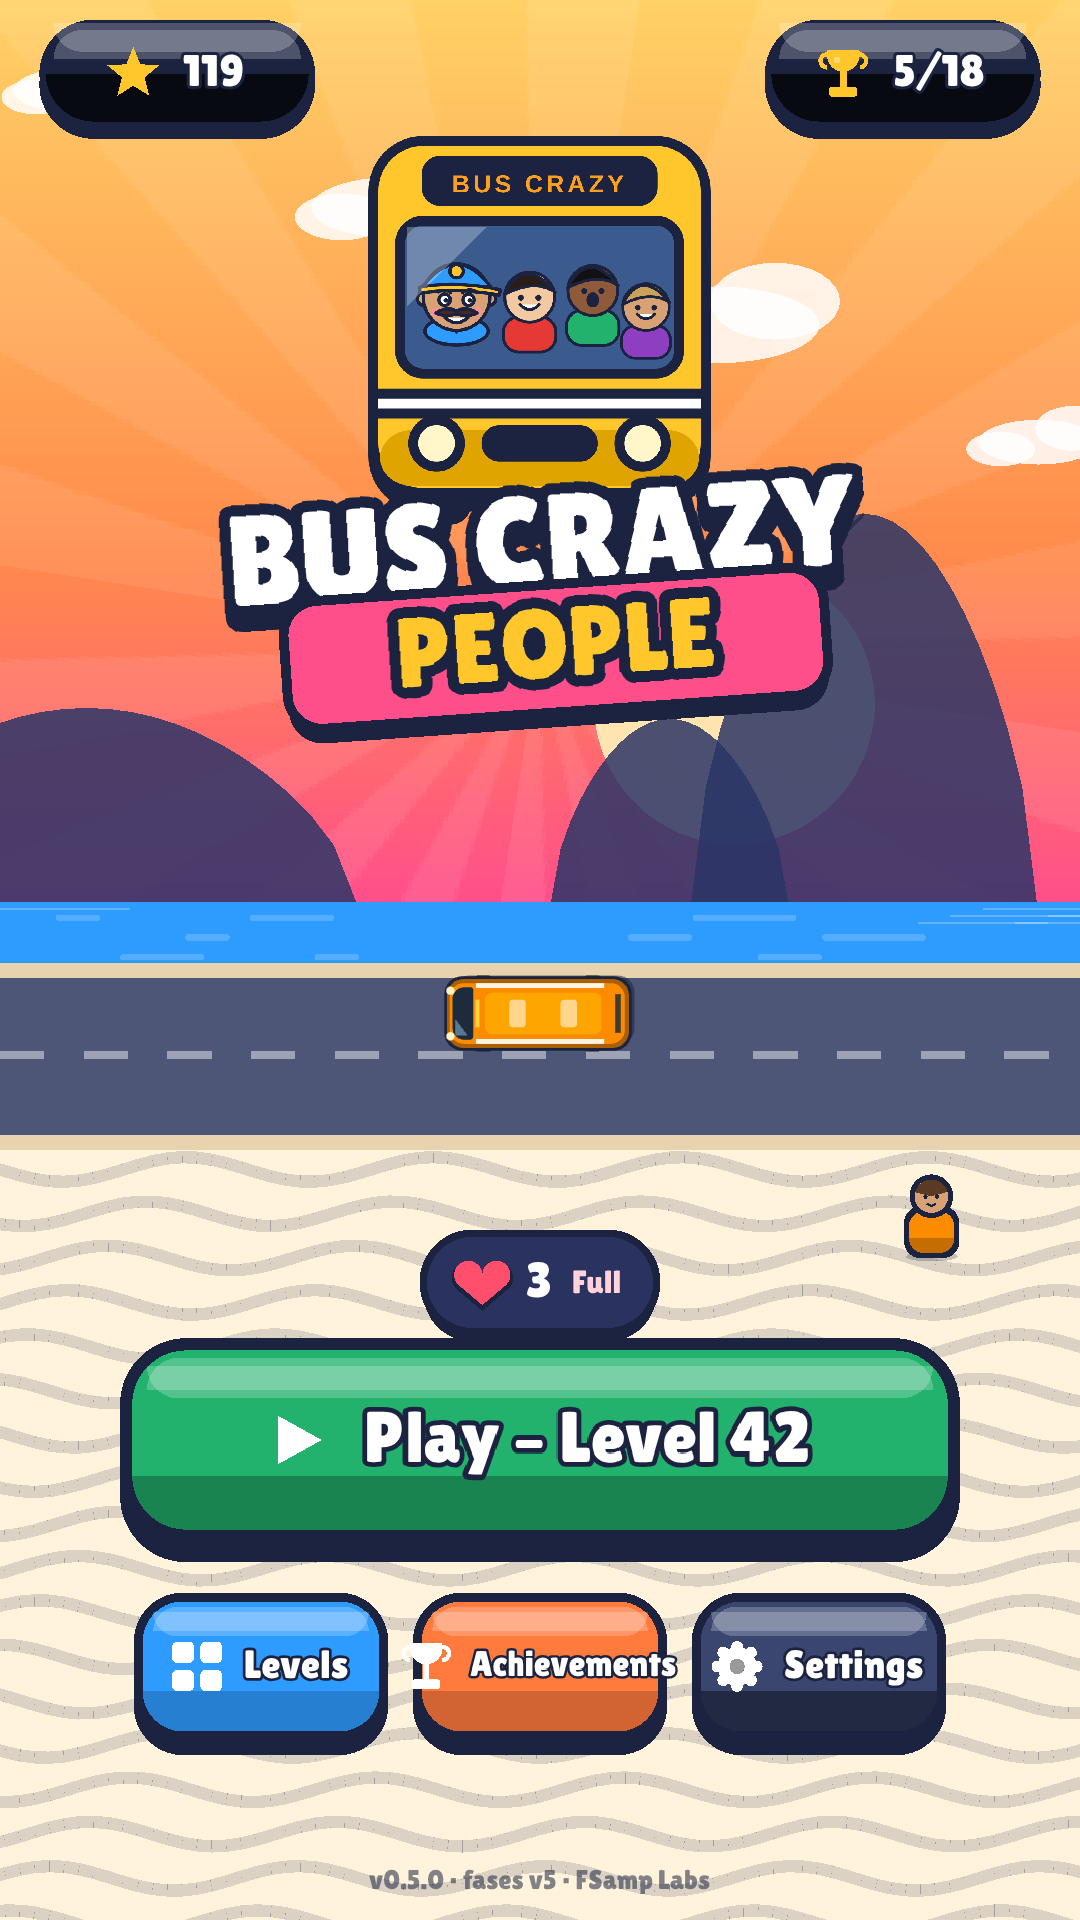
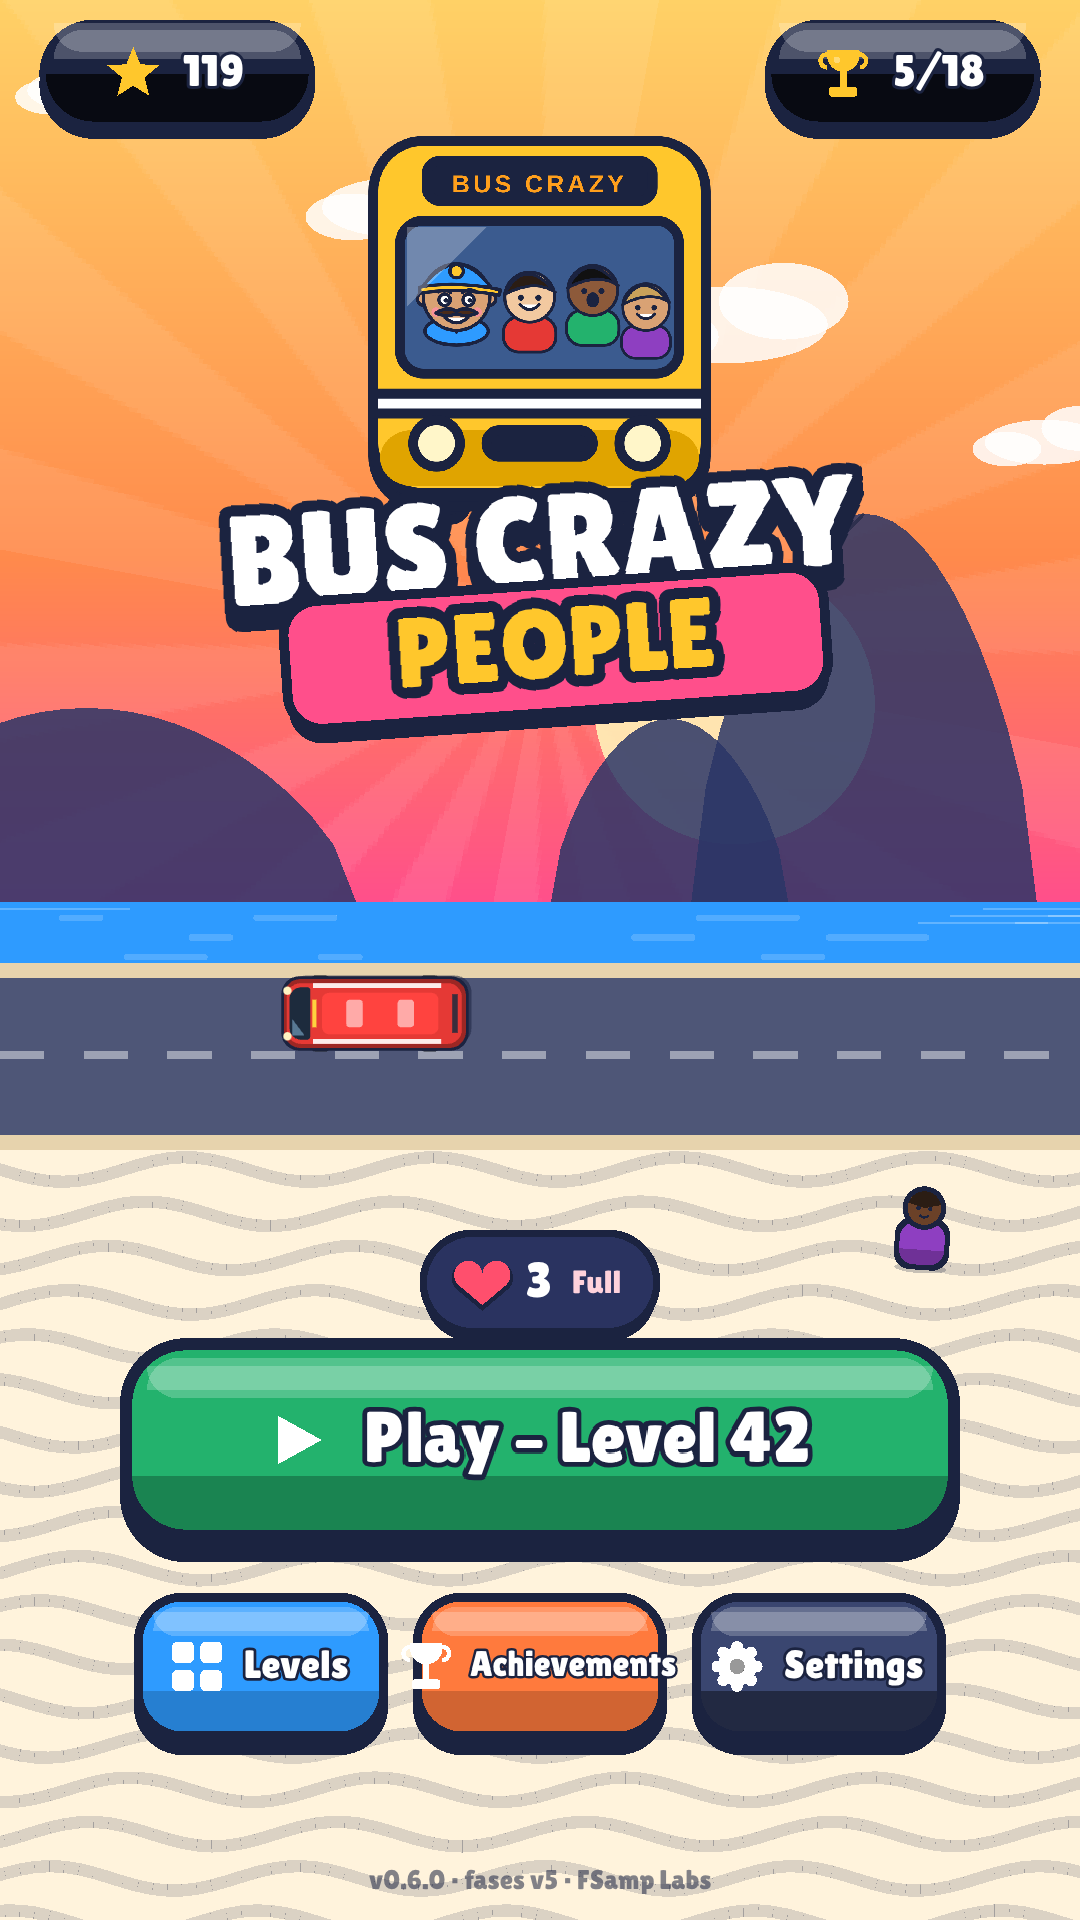
Polimento para publicação
- Abertura de cada fase: "Fase N · Deixe as 3 filas felizes!"
- Carinha da fila pulsa quando falta 1 jogada para ela piorar
- Filas ocupam a largura toda (mais passageiros visíveis)
- Derrota por vagas: texto sem repetição e sem falar em "próximo passageiro"
- Tablets: janelas e avisos proporcionais ao jogo; paisagem: botões de
  baixo com largura máxima
- Capturas da loja geradas de novo; versão 0.6.1

Claude-Session: https://claude.ai/code/session_017TcqurDwB4uomrNTHnP9us

diff --git a/src/scenes/GameScene.js b/src/scenes/GameScene.js
@@ -68,6 +68,7 @@ export class GameScene extends Phaser.Scene {
     if (!this.exempt && !Lives.has()) this.showNoLives();
     else if (this.level.challenge && !Progress.isCompleted(this.levelId)) this.showChallengeIntro();
     else this.showMechanicIntro();
+    if (!this.modalOpen) this.time.delayedCall(250, () => this.showLevelBanner());
 
     this.input.on('pointerdown', (p) => this.onPointerDown(p));
     this.input.on('pointerup', (p) => this.onPointerUp(p));
@@ -847,7 +848,7 @@ export class GameScene extends Phaser.Scene {
     const x0 = L.left + (multi ? 50 : 56) * u;
     const top = this.zones.yWalk + (multi ? 7 * u : 0);
     const rowH = multi ? (this.zones.walkH - 14 * u) / n : this.zones.walkH;
-    this.qVisible = Math.max(4, Math.min(CONFIG.game.queueVisible, Math.floor((L.right - 40 * u - x0) / this.qGap) + 1));
+    this.qVisible = Math.max(4, Math.min(CONFIG.game.queueVisible, Math.floor((L.right - 34 * u - x0) / this.qGap) + 1));
     this.lineRows = this.lines.map((_, i) => ({ i, x0, y: top + rowH * (i + 0.5) + (multi ? 3 * u : 2 * u), rowH, views: [], face: null, meter: null, more: null }));
   }
 
@@ -962,6 +963,14 @@ export class GameScene extends Phaser.Scene {
         row.face.clear();
         drawMoodFace(row.face, 0, 0, row.faceR, mood);
         row.face.setAlpha(done ? 0.85 : 1);
+        // aviso: só aguenta mais 1 jogada sem embarcar -> a carinha pulsa
+        const warn = !done && mood > 0 && calm - this.state.wait[li] <= 1;
+        if (warn && !row.pulse) row.pulse = this.tweens.add({ targets: row.face, scale: 1.18, duration: 260, yoyo: true, repeat: -1, ease: 'Sine.easeInOut' });
+        else if (!warn && row.pulse) {
+          row.pulse.stop();
+          row.pulse = null;
+          row.face.setScale(1);
+        }
       }
       // paciência: pontinhos (cheios = jogadas que ainda aguenta antes de piorar)
       if (row.meter) {
@@ -990,6 +999,34 @@ export class GameScene extends Phaser.Scene {
         v.priority.txt.setColor(left <= 2 ? '#c0141f' : '#1f2333');
       }
     }
+  }
+
+  /** Abertura da fase: "Fase N" + objetivo (some sozinha; não bloqueia o toque). */
+  showLevelBanner() {
+    if (this.modalOpen || this.state.moves) return;
+    const u = this.u;
+    const y = this.gy + (this.cell * this.level.rows) / 2;
+    const c = this.add.container(this.L.cx, y).setDepth(80);
+    const title = this.add
+      .text(0, -12 * u, t('game.level', { n: this.levelId }), { fontFamily: DISPLAY, fontSize: `${34 * u}px`, color: '#ffffff', stroke: C.inkCss, strokeThickness: 8 * u })
+      .setOrigin(0.5);
+    const n = this.lines.length;
+    const sub = this.add
+      .text(0, 24 * u, n > 1 ? t('game.goal', { n }) : t('game.goal1'), { fontFamily: DISPLAY, fontSize: `${16 * u}px`, color: '#ffe28a', stroke: C.inkCss, strokeThickness: 5 * u })
+      .setOrigin(0.5);
+    const w = Math.max(title.width, sub.width) + 44 * u;
+    const h = 92 * u;
+    const bg = this.add.graphics();
+    bg.fillStyle(C.ink, 0.35);
+    bg.fillRoundedRect(-w / 2, -h / 2 + 6 * u, w, h, 22 * u);
+    bg.fillStyle(this.level.challenge ? C.challenge : C.button, 1);
+    bg.fillRoundedRect(-w / 2, -h / 2, w, h, 22 * u);
+    bg.lineStyle(4 * u, C.ink, 1);
+    bg.strokeRoundedRect(-w / 2, -h / 2, w, h, 22 * u);
+    c.add([bg, title, sub]);
+    c.setScale(0.6).setAlpha(0);
+    this.tweens.add({ targets: c, scale: 1, alpha: 1, duration: 260, ease: 'Back.easeOut' });
+    this.tweens.add({ targets: c, alpha: 0, y: y - 30 * u, delay: 1300, duration: 320, ease: 'Quad.easeIn', onComplete: () => c.destroy() });
   }
 
   /** Toque na carinha: explica o humor e as estrelas. */
@@ -1034,7 +1071,7 @@ export class GameScene extends Phaser.Scene {
 
   buildBottomBar(L, u, pad) {
     const y = this.zones.yBottom + this.zones.bottomH / 2;
-    const w = (L.usableW - pad * 2 - 16 * u) / 3;
+    const w = Math.min((L.usableW - pad * 2 - 16 * u) / 3, 150 * u); // paisagem/tablet: não estica demais
     const h = 58 * u;
     const opts = (icon, color) => ({ width: w, height: h, fontSize: 16 * u, radius: 18 * u, icon, iconSize: 22 * u, color });
     this.undoBtn = new Button(this, L.cx - w - 8 * u, y, t('game.undo'), opts('undo', C.button), () => this.onUndo()).setDepth(50);
@@ -1497,6 +1534,7 @@ export class GameScene extends Phaser.Scene {
         this.modalOpen = false;
         this.highlightMechanic(next);
         this.time.delayedCall(400, () => this.autoHint());
+        this.time.delayedCall(150, () => this.showLevelBanner());
       },
     });
   }
@@ -1549,7 +1587,7 @@ export class GameScene extends Phaser.Scene {
           },
         },
       ],
-      onClose: () => (this.modalOpen = false),
+      onClose: () => ((this.modalOpen = false), this.time.delayedCall(150, () => this.showLevelBanner())),
     });
   }
 

diff --git a/src/i18n/pt-BR.js b/src/i18n/pt-BR.js
@@ -47,6 +47,8 @@ export default {
     combo: 'Combo x{n}!',
     moodAnnoyed: 'Fila impaciente!',
     moodAngry: 'Fila nervosa!',
+    goal: 'Deixe as {n} filas felizes!',
+    goal1: 'Deixe a fila feliz!',
     homeTitle: 'Voltar ao início?',
     homeInfo: 'Você perde o andamento desta fase (as vidas não são gastas).',
     homeYes: 'Sair',
@@ -77,12 +79,12 @@ export default {
     moves: { one: 'em {n} jogada', other: 'em {n} jogadas' },
   },
   lose: {
-    needColor: 'O próximo passageiro precisava de um ônibus {color}.',
+    needColor: 'A frente das filas precisava de um ônibus {color}.',
     needColors: 'Nenhum ônibus servia para a frente das filas ({colors}).',
     titleStuck: 'Trânsito travado!',
     infoStuck: 'Nenhum ônibus consegue sair mais. Desfaça uma jogada ou reinicie.',
     titleSlots: 'Ponto lotado!',
-    infoSlots: 'Todas as vagas ficaram ocupadas sem ônibus da cor do próximo passageiro.',
+    infoSlots: 'Todas as vagas do ponto ficaram ocupadas.',
     titlePatience: 'Perdeu a paciência!',
     infoPatience: 'Um passageiro com pressa não embarcou a tempo.',
     undo: 'Desfazer última jogada',

diff --git a/src/i18n/es.js b/src/i18n/es.js
@@ -46,6 +46,8 @@ export default {
     combo: '¡Combo x{n}!',
     moodAnnoyed: '¡Fila impaciente!',
     moodAngry: '¡Fila enojada!',
+    goal: '¡Mantén felices las {n} filas!',
+    goal1: '¡Mantén feliz la fila!',
     homeTitle: '¿Volver al inicio?',
     homeInfo: 'Pierdes el avance de este nivel (no se gastan vidas).',
     homeYes: 'Salir',
@@ -76,12 +78,12 @@ export default {
     moves: { one: 'en {n} jugada', other: 'en {n} jugadas' },
   },
   lose: {
-    needColor: 'El próximo pasajero necesitaba un bus {color}.',
+    needColor: 'El frente de las filas necesitaba un bus {color}.',
     needColors: 'Ningún bus servía para el frente de las filas ({colors}).',
     titleStuck: '¡Atasco total!',
     infoStuck: 'Ningún bus puede salir. Deshaz una jugada o reinicia.',
     titleSlots: '¡Parada llena!',
-    infoSlots: 'Todas las plazas están ocupadas y ningún bus coincide con el próximo pasajero.',
+    infoSlots: 'Todas las plazas de la parada están ocupadas.',
     titlePatience: '¡Se acabó la paciencia!',
     infoPatience: 'Un pasajero con prisa no subió a tiempo.',
     undo: 'Deshacer última jugada',

diff --git a/src/i18n/en.js b/src/i18n/en.js
@@ -46,6 +46,8 @@ export default {
     combo: 'Combo x{n}!',
     moodAnnoyed: 'Line getting impatient!',
     moodAngry: 'Line is angry!',
+    goal: 'Keep all {n} lines happy!',
+    goal1: 'Keep the line happy!',
     homeTitle: 'Back to home?',
     homeInfo: 'You will lose your progress on this level (no lives are spent).',
     homeYes: 'Leave',
@@ -76,12 +78,12 @@ export default {
     moves: { one: 'in {n} move', other: 'in {n} moves' },
   },
   lose: {
-    needColor: 'The next passenger needed a {color} bus.',
+    needColor: 'The front of the lines needed a {color} bus.',
     needColors: 'No bus matched the front of the lines ({colors}).',
     titleStuck: 'Total gridlock!',
     infoStuck: 'No bus can leave anymore. Undo a move or restart.',
     titleSlots: 'Stop is full!',
-    infoSlots: 'Every spot is taken and none of the buses matches the next passenger.',
+    infoSlots: 'Every spot at the stop is taken.',
     titlePatience: 'Out of patience!',
     infoPatience: 'A passenger in a hurry did not get on in time.',
     undo: 'Undo last move',

diff --git a/src/config.js b/src/config.js
@@ -28,7 +28,7 @@ export const CONFIG = {
     tutorialLevels: 10, // fases 1–10: dica visual (mãozinha) automática
     freeUndosPerLevel: 1,
     maxExtraSlotsPerLevel: 1, // booster "vaga extra" (anúncio), temporária
-    queueVisible: 11, // passageiros desenhados na calçada (o resto vira "+N")
+    queueVisible: 16, // máximo de passageiros desenhados por fila (cabe o que a largura permitir; o resto vira "+N")
   },
 
   // ---------------------------------------------------------------------------

diff --git a/src/style.css b/src/style.css
@@ -606,3 +606,17 @@ body {
   line-height: 18px;
   font-size: 11px;
 }
+
+/* Tablets e telas grandes: janelas proporcionais ao jogo (o canvas escala; o HTML não) */
+@media (min-width: 600px) and (min-height: 860px) {
+  .fds-box,
+  .fds-toast {
+    zoom: 1.35;
+  }
+}
+@media (min-width: 900px) and (min-height: 1100px) {
+  .fds-box,
+  .fds-toast {
+    zoom: 1.6;
+  }
+}
